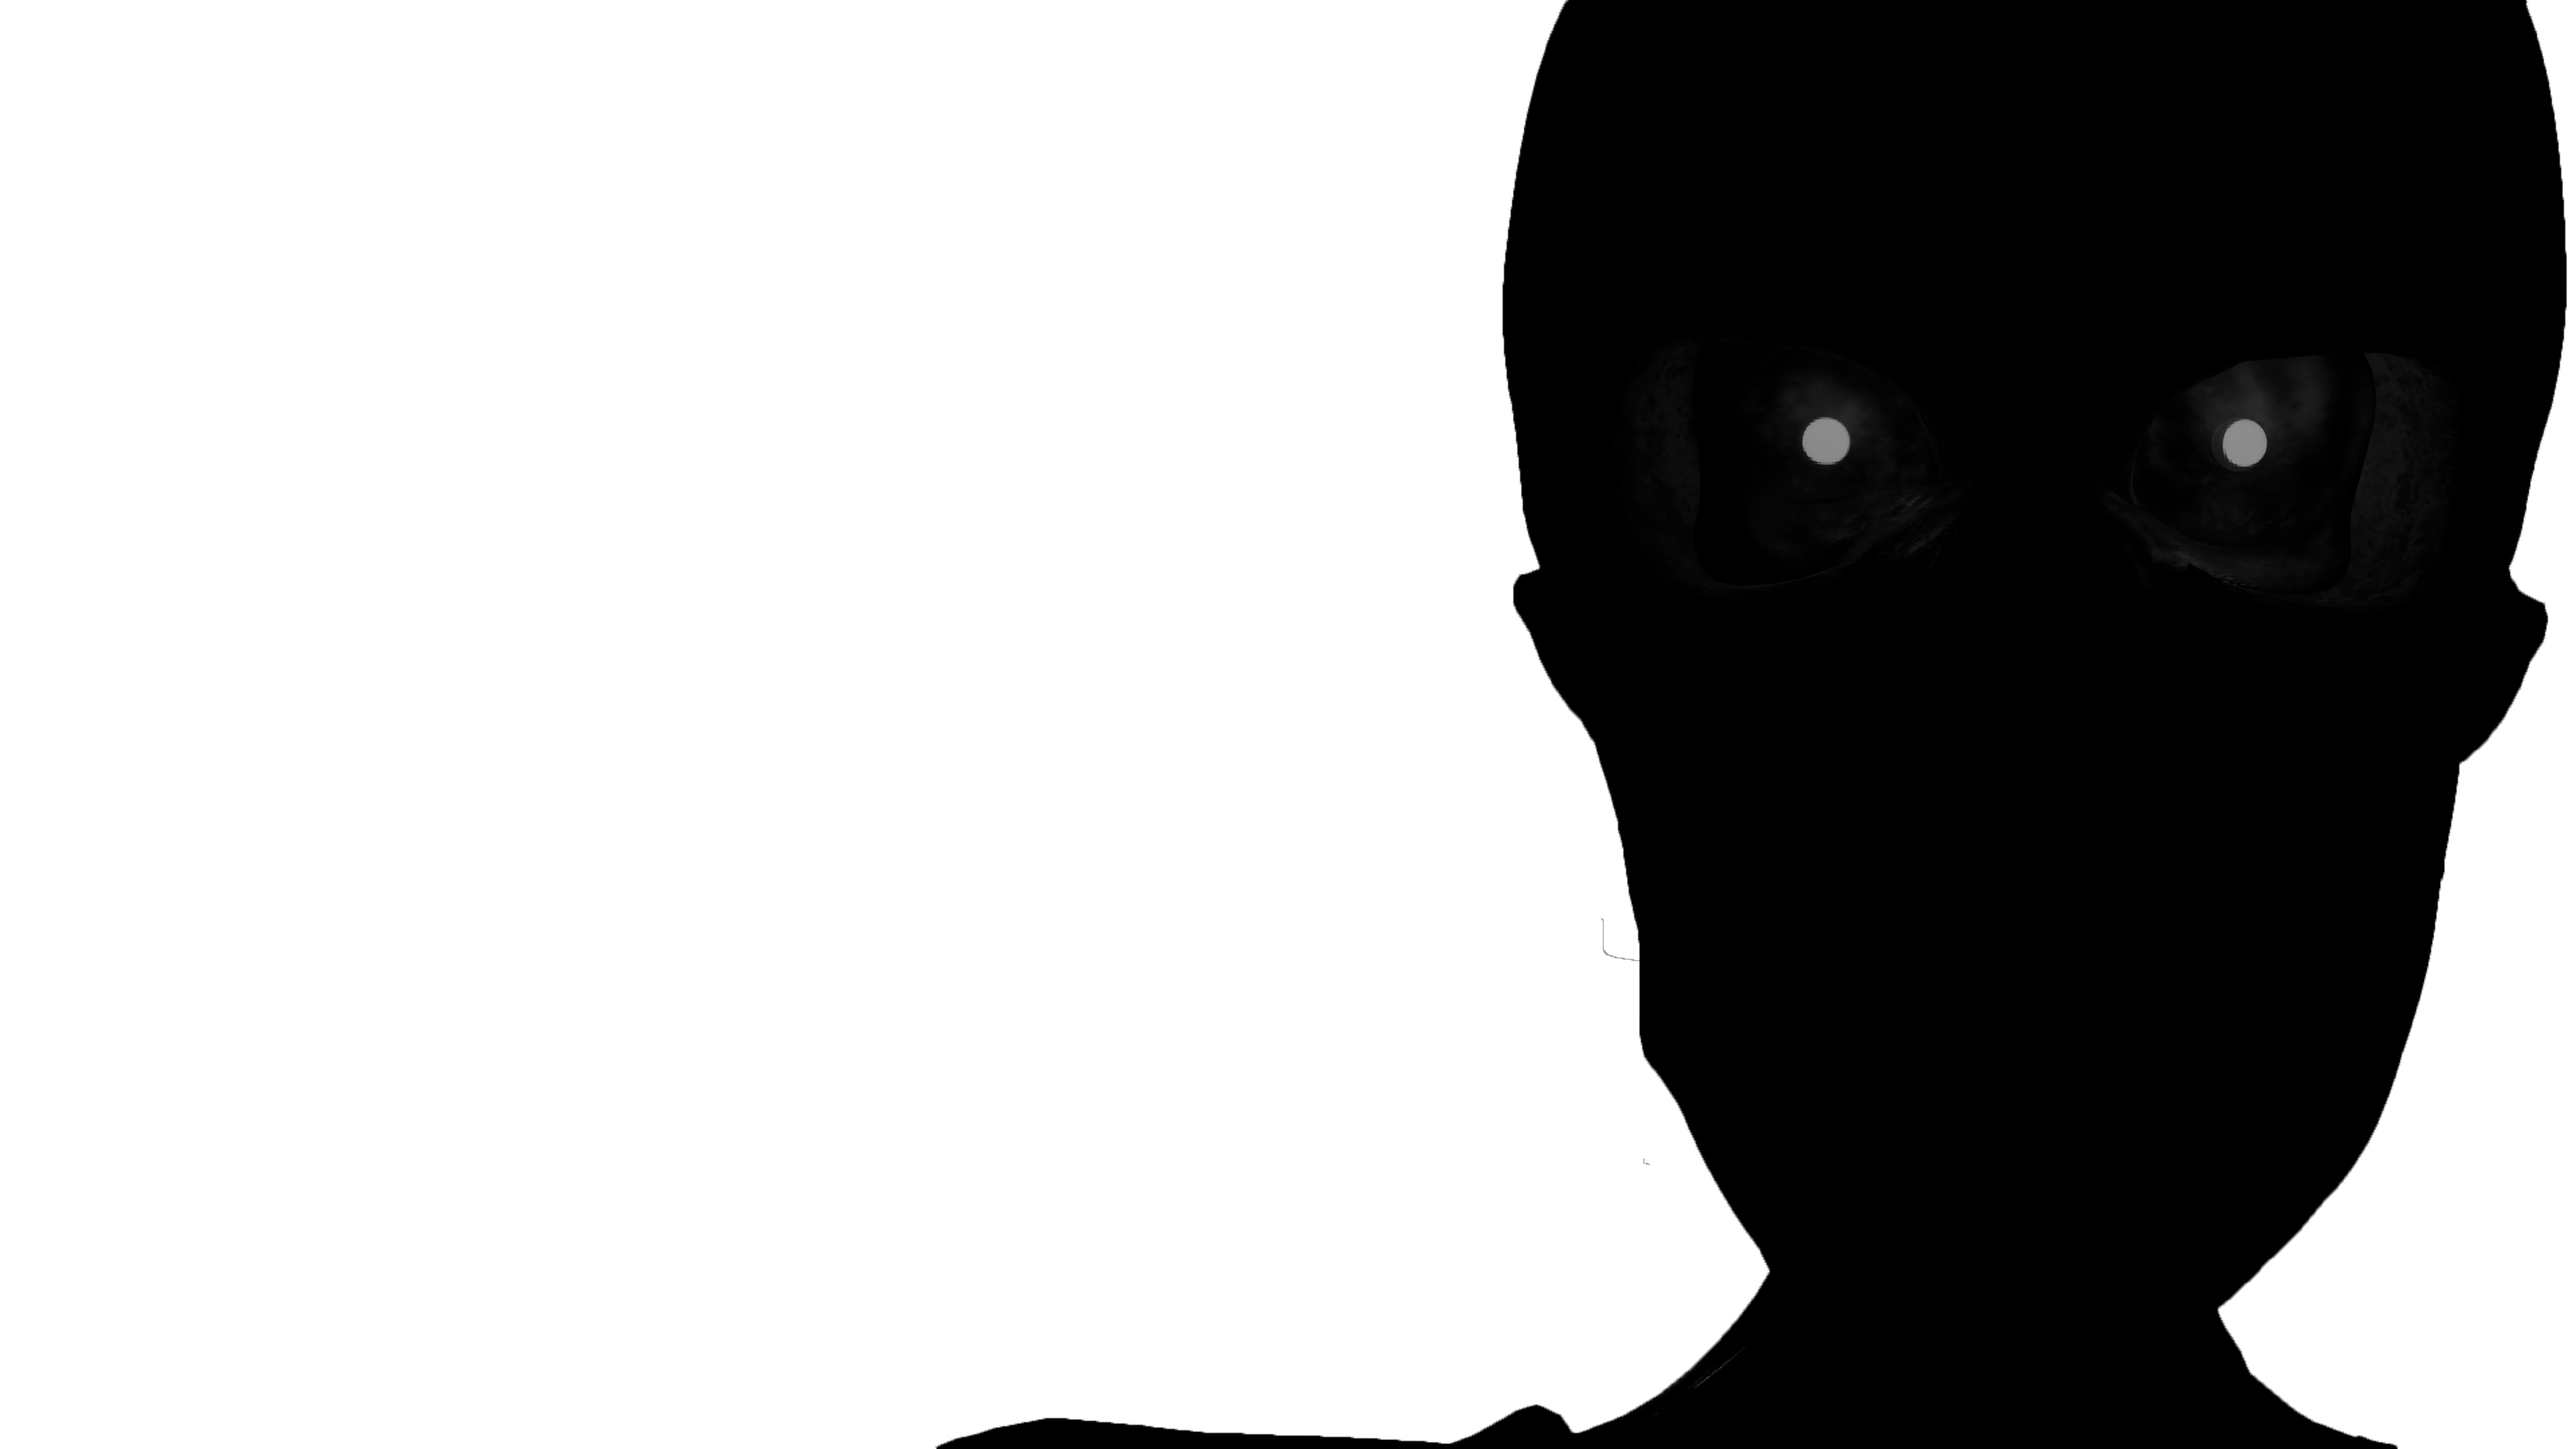
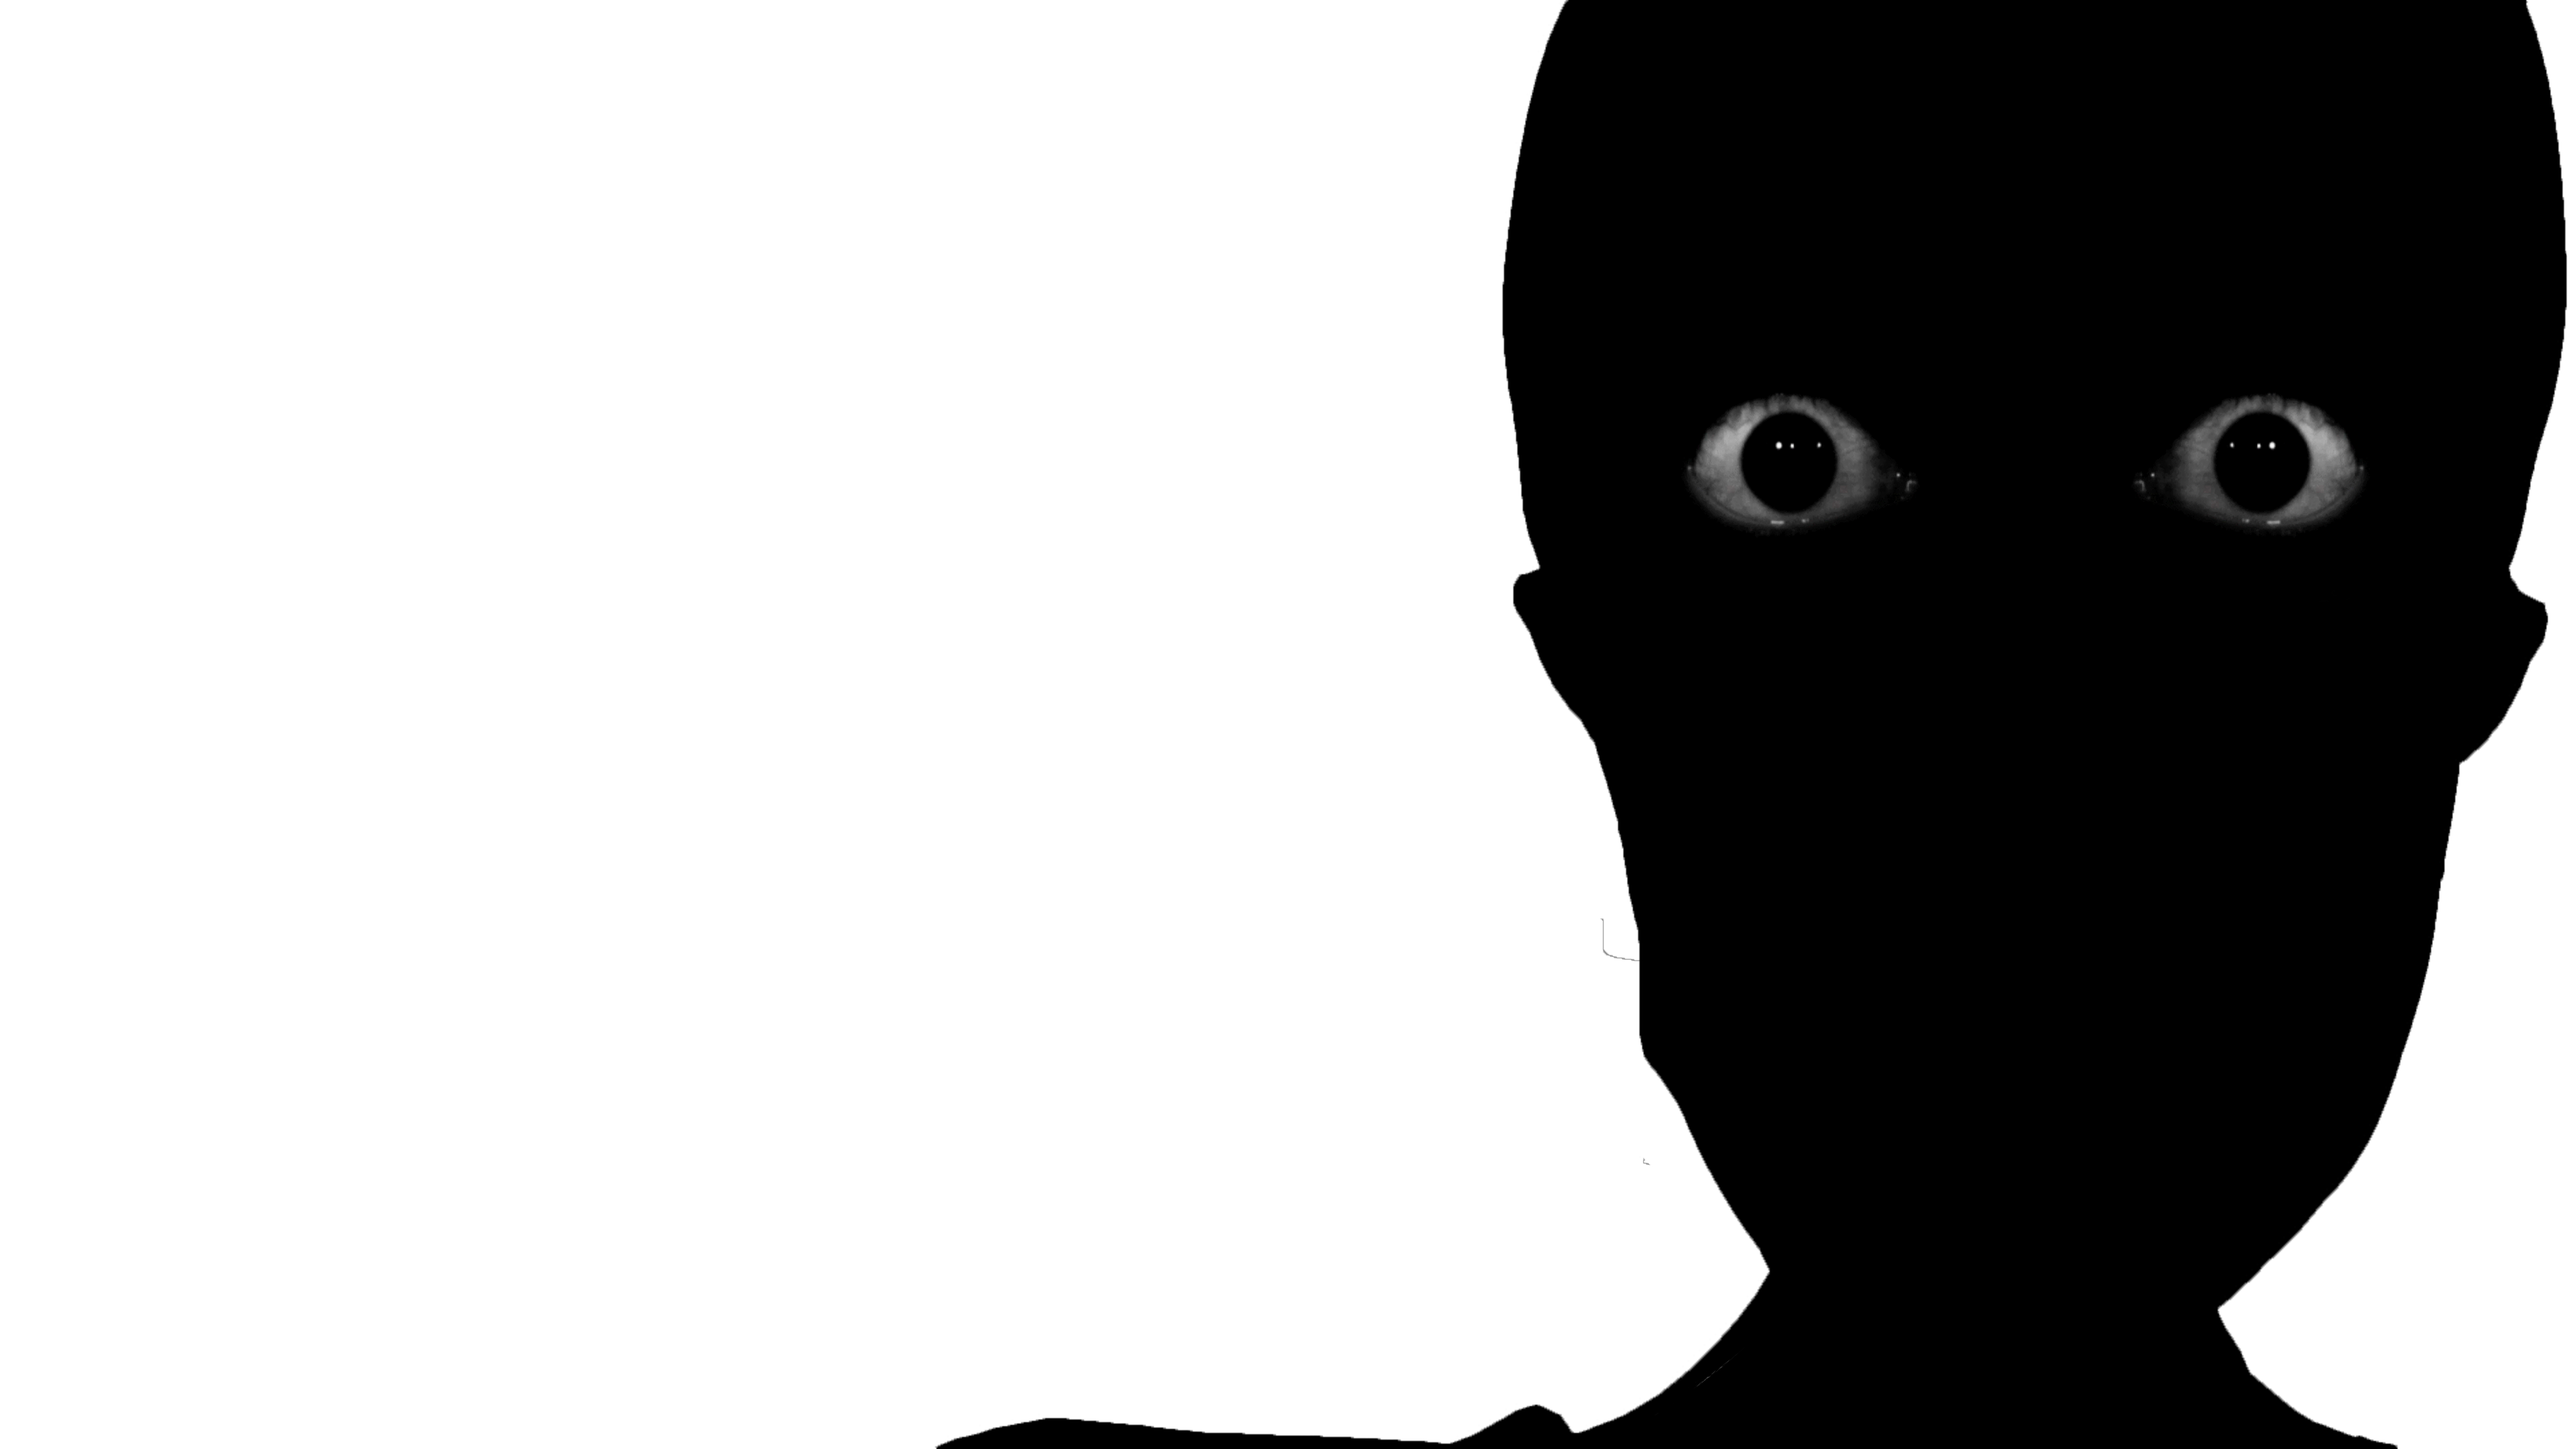
new monster

Changed region(s): [[0.8438, 0.2481, 0.9375, 0.3722], [0.6562, 0.2792, 0.75, 0.3722]]

diff --git a/src/js/main.js b/src/js/main.js
@@ -1746,7 +1746,7 @@ let missedObjects = 0;
 
 function buildObjectQueue() {
   const allObjects = Array.from(
-    carouselHard.querySelectorAll(".object-parent:not(.found)"),
+    carouselHard.querySelectorAll(".object-parent"),
   );
 
   for (let i = allObjects.length - 1; i > 0; i--) {
@@ -1762,7 +1762,16 @@ function spawnObject() {
     buildObjectQueue();
   }
 
-  const obj = objectQueue.shift();
+  // cherche le premier objet non visible dans la queue
+  let obj = null;
+  while (objectQueue.length > 0) {
+    const candidate = objectQueue.shift();
+    if (!candidate.classList.contains("visible")) {
+      obj = candidate;
+      break;
+    }
+  }
+
   if (!obj) return;
 
   obj.classList.add("visible");
@@ -1774,12 +1783,9 @@ function spawnObject() {
     obj.classList.remove("visible");
     obj.style.opacity = "0";
 
-    // missedObjects--;
-    // if (missedObjects < 0) missedObjects = 0;
-
     missedObjects++;
 
-    if (missedObjects >= 4) {
+    if (missedObjects >= 6) {
       endGame(false);
       return;
     }
